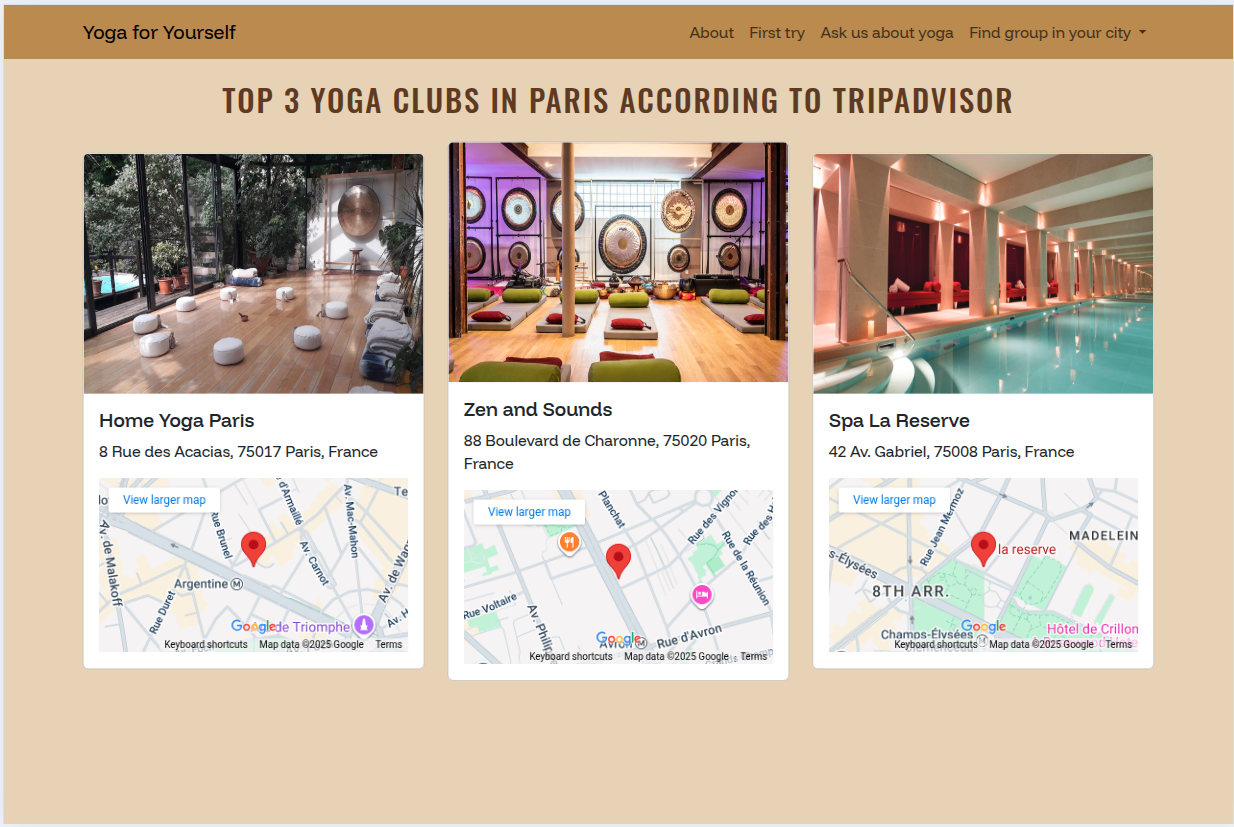
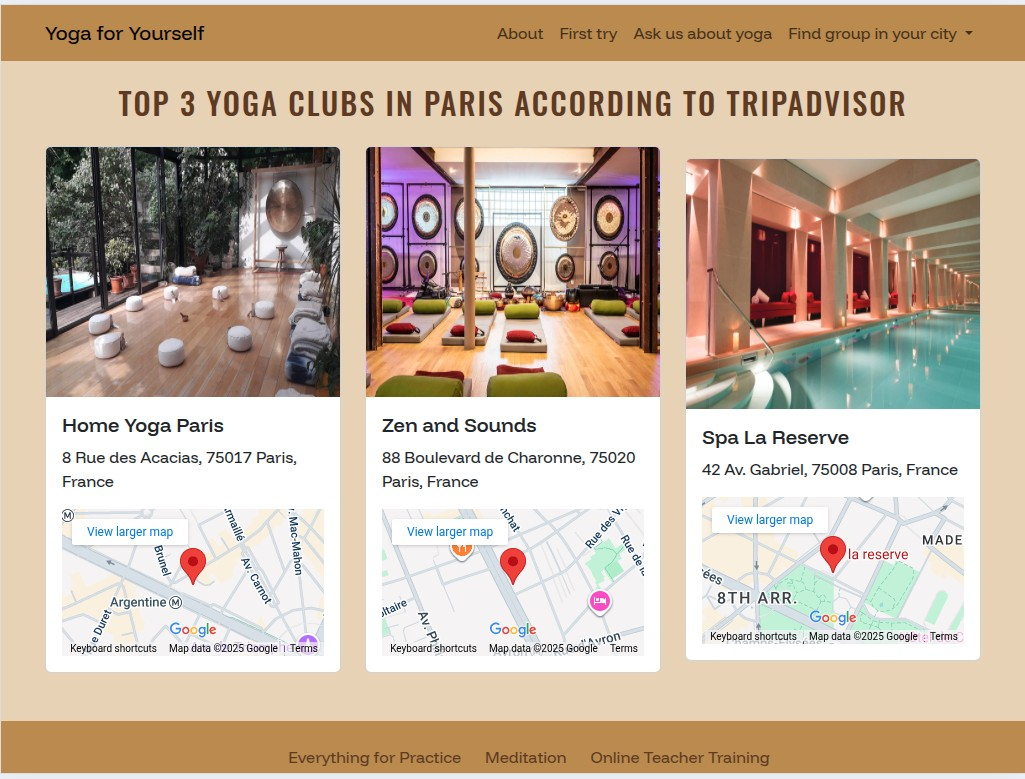
Update photos of cities in Readme

diff --git a/README.md b/README.md
@@ -249,11 +249,11 @@ Top 3 Yoga Clubs in Dublin (according to Tripadvisor)
 
 _Source: [Tripadvisor Dublin](https://www.tripadvisor.com/Attractions-g186605-Activities-c40-t260-Dublin_County_Dublin.html)_
 
-| Device  | Appearance                                                                                                                                         |
-| ------- | -------------------------------------------------------------------------------------------------------------------------------------------------- |
-| Mobile  | <img src="documentation/dublin_mobile_1.png" width="100" height="160"> <img src="documentation/dublin_mobile_1.png" width="100" height="160">      |
-| Tablet  | <img src="documentation/dublin_tablet_horizont.png" width="400" height="200"> <img src="documentation/dublin_tablet.png" width="200" height="400"> |
-| Desktop | <img src="documentation/dublin_desktop.png" width="620" height="420">                                                                              |
+| Device  | Appearance                                                                                                                                                                                                                  |
+| ------- | --------------------------------------------------------------------------------------------------------------------------------------------------------------------------------------------------------------------------- |
+| Mobile  | <img src="documentation/dublin_mobile_1.png" width="100" height="160"> <img src="documentation/dublin_mobile_2.png" width="100" height="160">                                                                               |
+| Tablet  | <img src="documentation/dublin_tablet_horizont.png" width="350" height="200"> <img src="documentation/dublin_tablet_1.png" width="200" height="400"> <img src="documentation/dublin_tablet_2.png" width="200" height="400"> |
+| Desktop | <img src="documentation/dublin_desktop.png" width="620" height="380">                                                                                                                                                       |
 
 ---
 
@@ -267,11 +267,11 @@ Top 3 Yoga Clubs in Paris (according to Tripadvisor)
 
 _Source: [Tripadvisor Paris](https://www.tripadvisor.com/Attractions-g187147-Activities-c40-t260-Paris_Ile_de_France.html/)_
 
-| Device  | Appearance                                                                                                                                         |
-| ------- | -------------------------------------------------------------------------------------------------------------------------------------------------- |
-| Mobile  | <img src="documentation/paris_mobile_1.png" width="100" height="160"> <img src="documentation/paris_mobile_2.png" width="100" height="160">        |
-| Tablet  | <img src="documentation/paris_tablet_horizont.png" width="400" height="200"> <img src="documentation/paris_tablet_1.png" width="200" height="400"> |
-| Desktop | <img src="documentation/paris_desktop.png" width="620" height="420">                                                                               |
+| Device  | Appearance                                                                                                                                                                                                               |
+| ------- | ------------------------------------------------------------------------------------------------------------------------------------------------------------------------------------------------------------------------ |
+| Mobile  | <img src="documentation/paris_mobile_1.png" width="100" height="160"> <img src="documentation/paris_mobile_2.png" width="100" height="160">                                                                              |
+| Tablet  | <img src="documentation/paris_tablet_horizont.png" width="350" height="200"> <img src="documentation/paris_tablet_1.png" width="200" height="400"> <img src="documentation/paris_tablet_2.png" width="200" height="400"> |
+| Desktop | <img src="documentation/paris_desktop.png" width="620" height="420">                                                                                                                                                     |
 
 ---
 
@@ -285,11 +285,11 @@ Top 3 Yoga Clubs in Berlin (according to Tripadvisor)
 
 _Source: [Tripadvisor Berlin](https://www.tripadvisor.de/Attractions-g187323-Activities-c40-t260-Berlin.html)_
 
-| Device  | Appearance                                                                                                                                         |
-| ------- | -------------------------------------------------------------------------------------------------------------------------------------------------- |
-| Mobile  | <img src="documentation/berlin_mobile_1.png" width="100" height="160"> <img src="documentation/berlin_mobile_2.png" width="100" height="160">      |
-| Tablet  | <img src="documentation/berlin_tablet_horizont.png" width="400" height="200"> <img src="documentation/berlin_tablet.png" width="200" height="400"> |
-| Desktop | <img src="documentation/berlin_desktop.png" width="620" height="420">                                                                              |
+| Device  | Appearance                                                                                                                                                                                                                  |
+| ------- | --------------------------------------------------------------------------------------------------------------------------------------------------------------------------------------------------------------------------- |
+| Mobile  | <img src="documentation/berlin_mobile_1.png" width="100" height="160"> <img src="documentation/berlin_mobile_2.png" width="100" height="160">                                                                               |
+| Tablet  | <img src="documentation/berlin_tablet_horizont.png" width="350" height="200"> <img src="documentation/berlin_tablet_1.png" width="200" height="380"> <img src="documentation/berlin_tablet_2.png" width="200" height="380"> |
+| Desktop | <img src="documentation/berlin_desktop.png" width="620" height="400">                                                                                                                                                       |
 
 ### Credits
 
